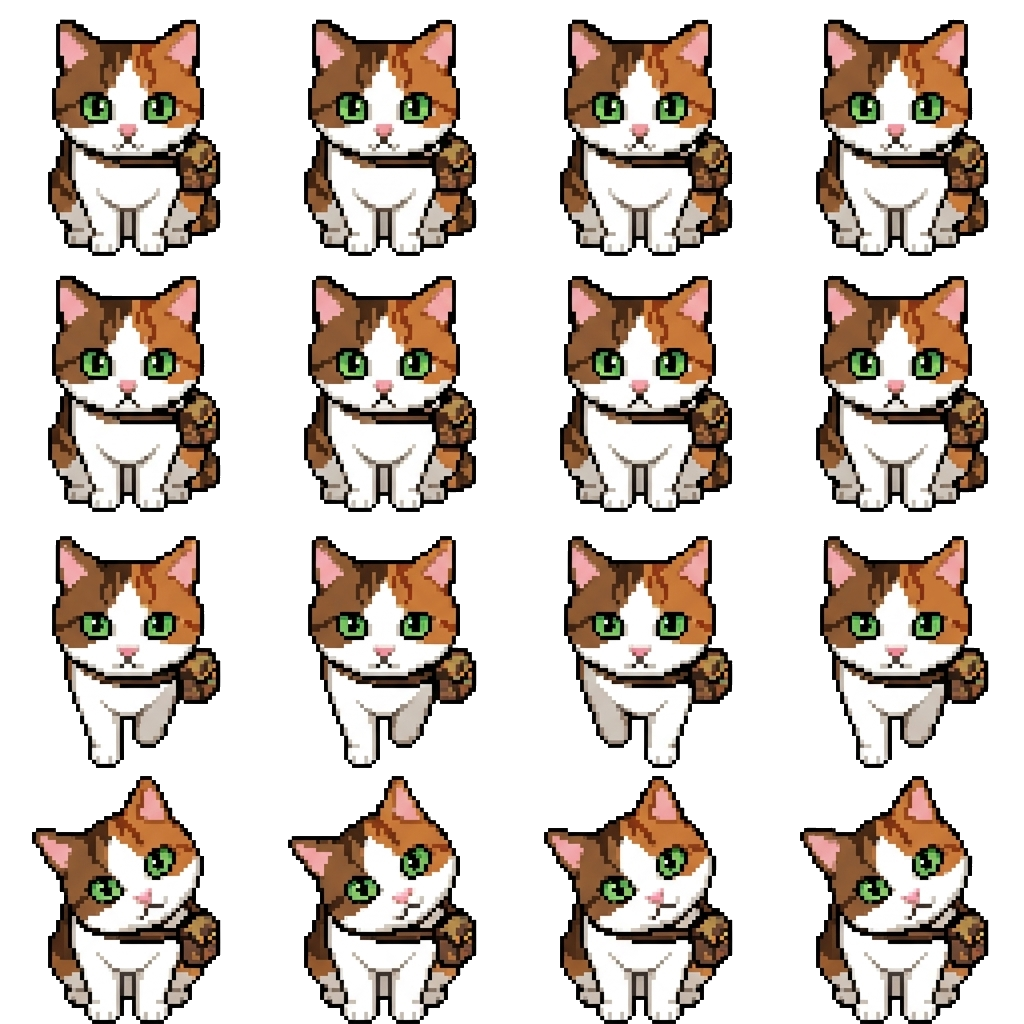
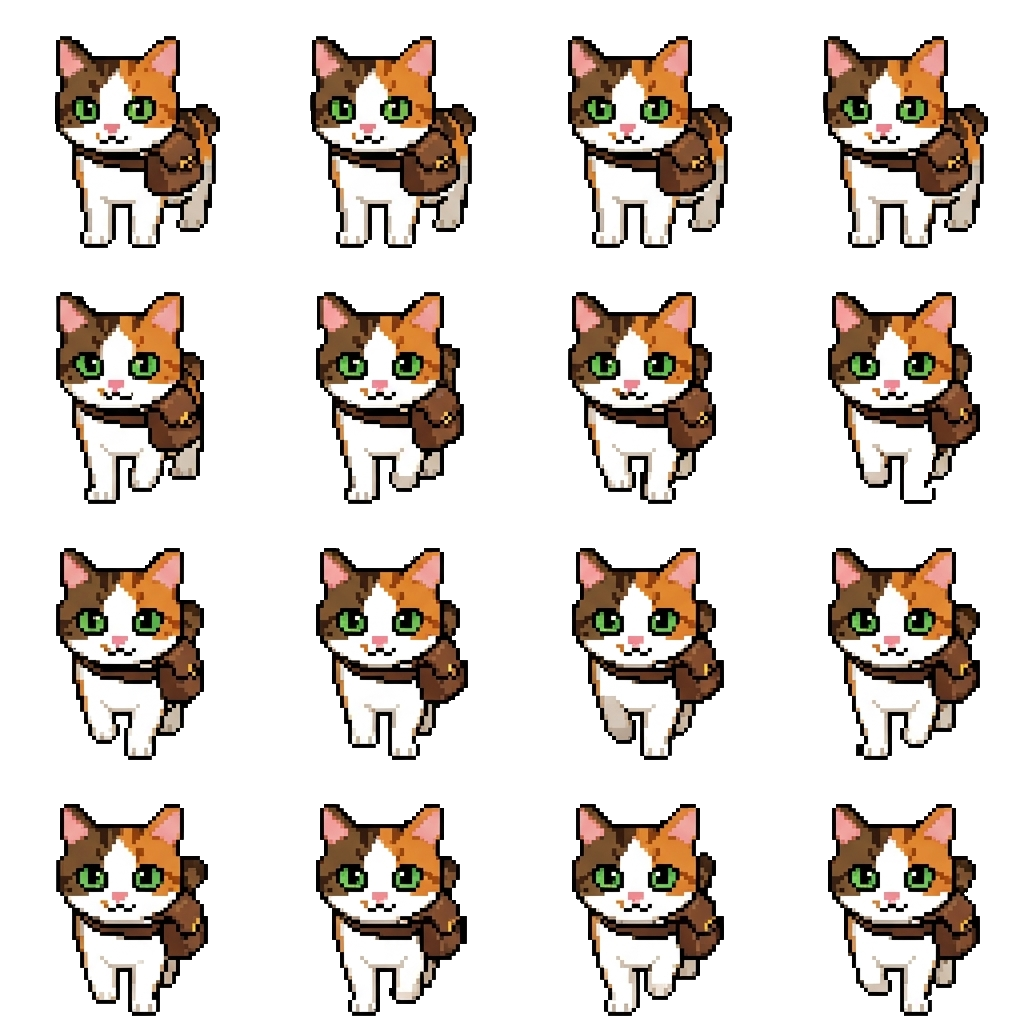
Add smooth camera tracking and compact station layout in Prism Tycoon

diff --git a/games/prism-tycoon/index.html b/games/prism-tycoon/index.html
@@ -293,7 +293,8 @@
     const cv = document.getElementById('game');
     const ctx = cv.getContext('2d');
 
-    let MAP_W = 1000, MAP_H = 640;
+    let MAP_W = 1120, MAP_H = 680;
+    let camera = { x: 0, y: 0, inited: false };
     const GAME_TIME = 300;
     const CAPACITY_BASE = 16;
     const BAG_STEP = 10;
@@ -998,8 +999,8 @@
       s.orderFlash = 1;
     }
 
-    // ---------- view ----------
-    let view = { scale: 1, ox: 0, oy: 0, w: 0, h: 0 };
+    // ---------- view & camera ----------
+    let view = { scale: 1, ox: 0, oy: 0, w: 0, h: 0, vw: 1600, vh: 680 };
 
     function resize() {
       const dpr = Math.min(window.devicePixelRatio || 1, 2);
@@ -1009,14 +1010,19 @@
       ctx.setTransform(dpr, 0, 0, dpr, 0, 0);
 
       MAP_H = 680;
-      MAP_W = Math.max(1000, Math.min(1800, MAP_H * (w / h)));
+      MAP_W = 1120;
+
+      const scale = Math.max(h / MAP_H, w / MAP_W);
+      const vw = w / scale;
+      const vh = h / scale;
+      view = { scale, ox: 0, oy: 0, w, h, vw, vh };
 
       YARD = { x: 30, y: 110, w: MAP_W - 60, h: MAP_H - 140 };
 
-      const col1 = MAP_W * 0.12;
-      const col2 = MAP_W * 0.38;
-      const col3 = MAP_W * 0.64;
-      const col4 = MAP_W * 0.88;
+      const col1 = 170;
+      const col2 = 410;
+      const col3 = 650;
+      const col4 = 890;
 
       MINE_VEIN = { x: col1 - 65, y: 390, w: 130, h: 120 };
       BAG_PAD = { x: col1 - 65, y: 240, w: 130, h: 80 };
@@ -1048,12 +1054,38 @@
         sink: { x: MARKET_PAD.x + MARKET_PAD.w * 0.58, y: MARKET_PAD.y - 22 }
       };
 
-        BOUNDS = { x0: YARD.x + 25, x1: YARD.x + YARD.w - 25, y0: YARD.y + 25, y1: YARD.y + YARD.h - 25 };
-
-        const scale = Math.min(w / MAP_W, h / MAP_H) * 0.99;
-      view = { scale, ox: (w - MAP_W * scale) / 2, oy: (h - MAP_H * scale) / 2, w, h };
+      BOUNDS = { x0: YARD.x + 25, x1: YARD.x + YARD.w - 25, y0: YARD.y + 25, y1: YARD.y + YARD.h - 25 };
     }
     window.addEventListener('resize', resize);
+
+    function updateCamera(dt) {
+      if (!state || !state.player) return;
+      const p = state.player;
+      let targetX = 0;
+      let targetY = 0;
+
+      if (view.vw >= MAP_W) {
+        targetX = (MAP_W - view.vw) / 2;
+      } else {
+        targetX = Math.max(0, Math.min(MAP_W - view.vw, p.x - view.vw / 2));
+      }
+
+      if (view.vh >= MAP_H) {
+        targetY = (MAP_H - view.vh) / 2;
+      } else {
+        targetY = Math.max(0, Math.min(MAP_H - view.vh, p.y - view.vh / 2));
+      }
+
+      if (!camera.inited) {
+        camera.x = targetX;
+        camera.y = targetY;
+        camera.inited = true;
+      } else {
+        const lerp = Math.min(1, (dt || 0.016) * 7);
+        camera.x += (targetX - camera.x) * lerp;
+        camera.y += (targetY - camera.y) * lerp;
+      }
+    }
 
     // ---------- input ----------
     const keys = new Set();
@@ -1076,8 +1108,8 @@
 
     function mapPointer(e) {
       return {
-        x: (e.offsetX - view.ox) / view.scale,
-        y: (e.offsetY - view.oy) / view.scale
+        x: e.offsetX / view.scale + camera.x,
+        y: e.offsetY / view.scale + camera.y
       };
     }
 
@@ -1115,8 +1147,9 @@
       if (stick && stick.id === e.pointerId) {
         // 드래그 없이 탭(클릭)만 한 경우: 바닥 클릭 이동
         if (!stick.moved && state && state.phase === 'play') {
-          const mx = (e.offsetX - view.ox) / view.scale;
-          const my = (e.offsetY - view.oy) / view.scale;
+          const p = mapPointer(e);
+          const mx = p.x;
+          const my = p.y;
 
           let hitUi = false;
           for (const h of uiHits) {
@@ -3621,8 +3654,8 @@
       const sh = state.shake || 0;
       const jx = sh ? (Math.random() - 0.5) * 10 * sh : 0;
       const jy = sh ? (Math.random() - 0.5) * 8 * sh : 0;
-      ctx.translate(view.ox + jx, view.oy + jy);
       ctx.scale(view.scale, view.scale);
+      ctx.translate(-camera.x + jx, -camera.y + jy);
 
       drawAtmosphere();
       drawYard();
@@ -3755,8 +3788,8 @@
         failFlash: 0,
         sparkCd: 0,
         revealT: 0,
-        cx: MAP_W / 2,
-        cy: MAP_H / 2 - 4
+        cx: camera.x + view.vw / 2,
+        cy: camera.y + view.vh / 2 - 4
       };
     }
 
@@ -3978,7 +4011,7 @@
       const border = lesson.cuts >= 2 ? GEMS.trap.line : GEMS.raw.line;
 
       ctx.fillStyle = 'rgba(8, 6, 16, 0.72)';
-      ctx.fillRect(0, 0, MAP_W, MAP_H);
+      ctx.fillRect(camera.x - 100, camera.y - 100, view.vw + 200, view.vh + 200);
 
       const cardW = 440, cardH = 400;
       const cardX = cx - cardW / 2, cardY = cy - cardH / 2 - 16;
@@ -4225,6 +4258,7 @@
         if (state && state.phase === 'play') update(dt);
         else if (state && state.phase === 'cutLesson') updateCutLesson(dt);
         if (state) tickOreSpill(state, dt);
+        updateCamera(dt);
         draw();
       } catch (err) {
         console.error('PRISM TYCOON draw error:', err);
